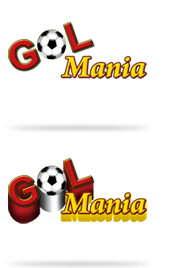
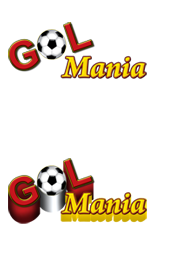
se agregan cambios de sombras en la galeria de video bingos, y cambios solicitados por alex

Changed region(s): [[0.1437, 0.9552, 0.7471, 1.0], [0.1437, 0.4478, 0.7471, 0.5075]]

diff --git a/portafolio_proyectos/ortiz/jogos/newtriple.html b/portafolio_proyectos/ortiz/jogos/newtriple.html
@@ -170,7 +170,8 @@
     <div id="ficha">
 
         <div id="videobonos">
-           <iframe src="http://player.vimeo.com/video/60786626?title=0&amp;byline=0&amp;portrait=0&amp;color=ffffff&amp;autoplay=1" width="393" height="289" frameborder="0" webkitAllowFullScreen mozallowfullscreen allowFullScreen></iframe>
+
+            <iframe src="http://player.vimeo.com/video/61856634" width="393" height="289" frameborder="0" webkitAllowFullScreen mozallowfullscreen allowFullScreen></iframe> <p><a href="http://vimeo.com/61856634">new triple</a> from <a href="http://vimeo.com/user16742171">Portafolio Branding</a> on <a href="http://vimeo.com">Vimeo</a>.</p>
         </div>
         <div id="fichatecnica">
             <h3>FICHA T&Eacute;CNICA</h3>

diff --git a/portafolio_proyectos/ortiz/ofuture-video.html b/portafolio_proyectos/ortiz/ofuture-video.html
@@ -167,7 +167,14 @@
         <div id='entrada'>
             
 
-            <iframe src="http://player.vimeo.com/video/60796352?title=0&amp;byline=0&amp;portrait=0&amp;color=ffffff&amp;autoplay=1 " width="430" height="316" frameborder="0"  webkitAllowFullScreen mozallowfullscreen allowFullScreen></iframe>
+           <iframe src="http://player.vimeo.com/video/61848979?title=0&amp;byline=0&amp;portrait=0&amp;color=ffffff" width="430" height="242" frameborder="0" webkitAllowFullScreen mozallowfullscreen allowFullScreen></iframe>
+
+           <br>
+           <br>
+           <br>
+           <br>
+           <br>
+           <br>
 
             <div id="metadatos">
                 <span id="title">T&iacute;tulo:</span>

diff --git a/portafolio_proyectos/ortiz/style.css b/portafolio_proyectos/ortiz/style.css
@@ -462,7 +462,7 @@ a#newtriple{background: url(images/bonos/bonos-35.png) no-repeat;}a#newtriple:ho
 
 /*====================================////////GALERIA VIDEO BINGO//////========================================*/
 
-#cont-gal{ width: 715px; height:482px; overflow-y: auto; overflow-x:hidden;
+#cont-gal{ width: 723px; height:482px; overflow-y: auto; overflow-x:hidden;
 	margin: 0 auto; padding: 60px 0 0 0;
 
 }

diff --git a/portafolio_proyectos/ortiz/bonos.html b/portafolio_proyectos/ortiz/bonos.html
@@ -156,8 +156,9 @@
 
 <DIV  id='contenido'>
     <DIV id='slide-producto-bono'>
-        <a href="jogos/magicpot.html" id="magicpot-gal"></a>
         <a href="jogos/sirprice.html" id="sirprize-gal"></a>
+        <a href="jogos/magicpot.html" id="magicpot-gal"></a>
+        
         
     </DIV>
 </DIV>

diff --git a/portafolio_proyectos/ortiz/jogos/ofuture.html b/portafolio_proyectos/ortiz/jogos/ofuture.html
@@ -156,8 +156,9 @@
 
 <DIV  id='contenido'>
     <DIV id='slide-producto-bono'>
-        <a href="vsr.html" id="vsr-gal"></a>
         <a href="ofuture-2.html" id="ofuture-gal"></a>
+        <a href="vsr.html" id="vsr-gal"></a>
+        
         
     </DIV>
     

diff --git a/portafolio_proyectos/ortiz/jogos/mrx.html b/portafolio_proyectos/ortiz/jogos/mrx.html
@@ -163,7 +163,7 @@
 
     <DIV id='slide-producto'>
         <a id='arrow-izq' href="dulcemania.html"></a>
-        <img src="../images/mr-x-alta.jpg">
+        <img src="../images/mrxalta.jpg">
         <a id='arrow-der' href="chickenfarm.html"></a>
 
     </DIV>
